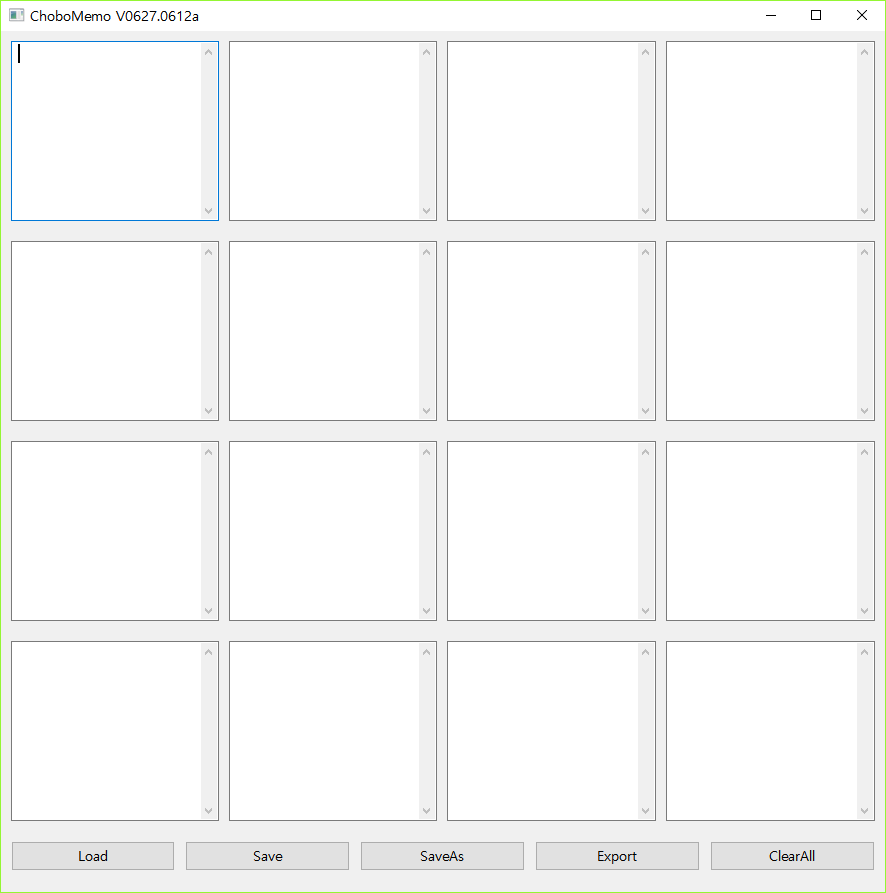
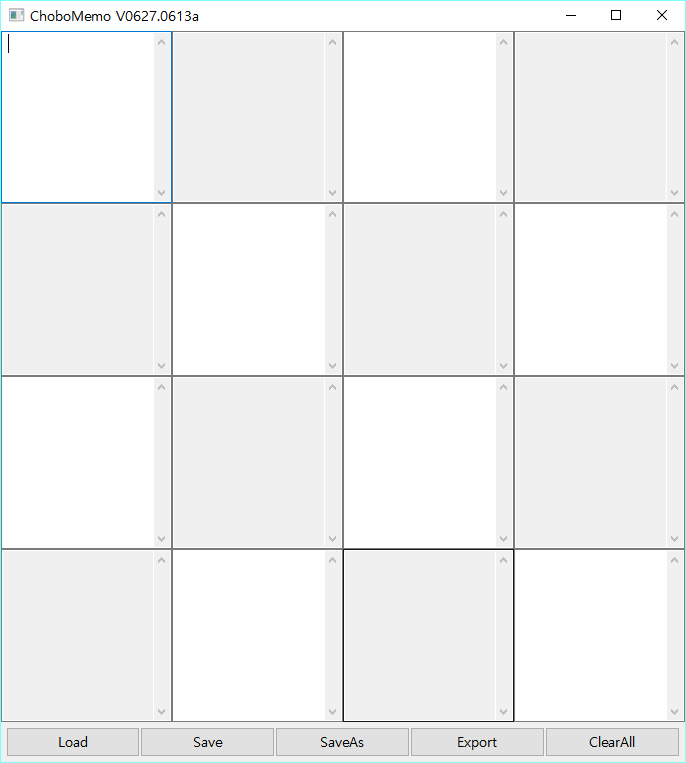
Add unittest

Changed region(s): [[0.0, 0.0, 1.0, 1.0]]

diff --git a/src/FileManager.py b/src/FileManager.py
@@ -50,7 +50,7 @@ class FileManager:
             htmlHead='''
             <html>
             <head>
-            <title>ChoboFileManager2 URL list</title>
+            <title>ChoboMemo</title>
             <style>
             td {
                 text-align:center
@@ -81,14 +81,20 @@ class FileManager:
             f = open(filePath,'w')
             f.write(htmlHead)
             idx = 1
+            colorTable = [ 0, 1, 0, 1, 
+                           1, 0, 1, 0,
+                           0, 1, 0, 1,
+                           1, 0, 1, 0]
+
             for memo in memoData:
                 if idx % 4 == 1:
                     f.write("<tr>\n")
                 bgcolor = ""
-                if idx % 2 == 0:
+                postData = ("<br>").join(memo.split("\n"))
+                if colorTable[idx-1] == 1:
                     bgcolor = "bgcolor=#e6f2ff"
-                tmpHtml = "<td {0}>&nbsp;{1}&nbsp;</td>\n".format(bgcolor, memo)
-                print(tmpHtml)
+                tmpHtml = "<td {0}>&nbsp;{1}&nbsp;</td>\n".format(bgcolor, postData)
+                #print(tmpHtml)
                 f.write(tmpHtml)
                 if idx % 4 == 0:
                     f.write("</tr>\n")

diff --git a/src/ChoboMemoPanel.py b/src/ChoboMemoPanel.py
@@ -262,3 +262,13 @@ class ChoboMemoPanel(wx.Panel):
         self.memoCtrlList.append(self.memoText14)
         self.memoCtrlList.append(self.memoText15)
         self.memoCtrlList.append(self.memoText16)
+        ##
+        colorTable = [ 0, 1, 0, 1, 
+                       1, 0, 1, 0,
+                       0, 1, 0, 1,
+                       1, 0, 1, 0]
+        idx = 0;
+        for memo in self.memoCtrlList:
+            if colorTable[idx] == 1:
+                memo.SetBackgroundColour((240, 240, 240))
+            idx += 1

diff --git a/src/chobomemo_unittest.py b/src/chobomemo_unittest.py
@@ -1,0 +1,12 @@
+import unittest
+import os
+
+
+class TestStringMethods(unittest.TestCase):
+    def test_basic(self):
+        preData = "abcde\nefg\nhi"
+        postData = ("<br>").join(preData.split("\n"))
+        print (postData)
+
+if __name__ == '__main__':
+    unittest.main()
